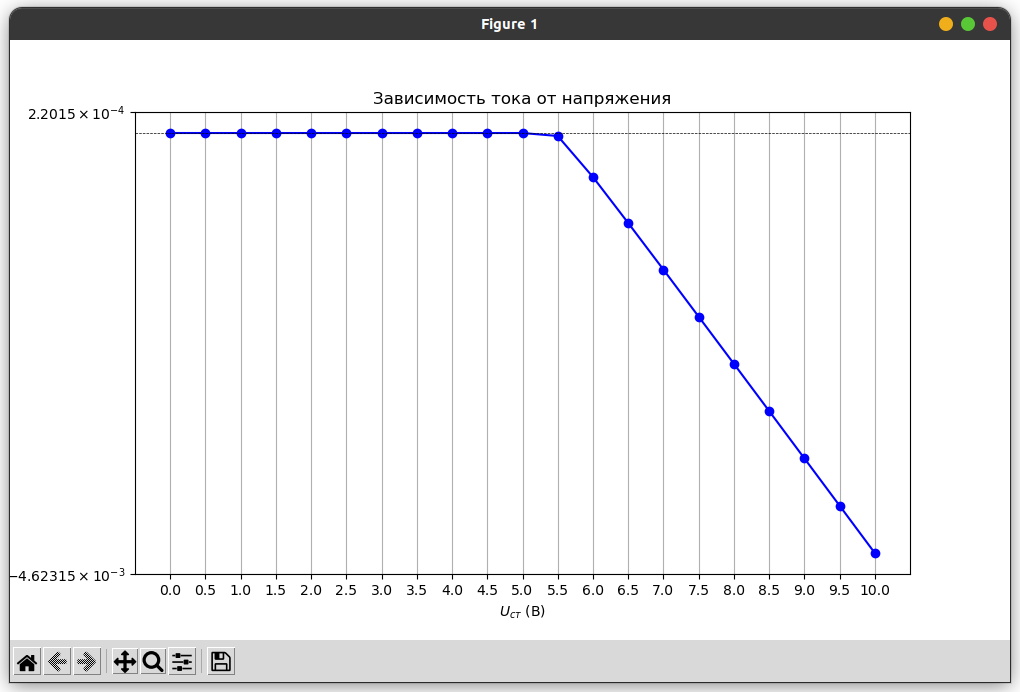
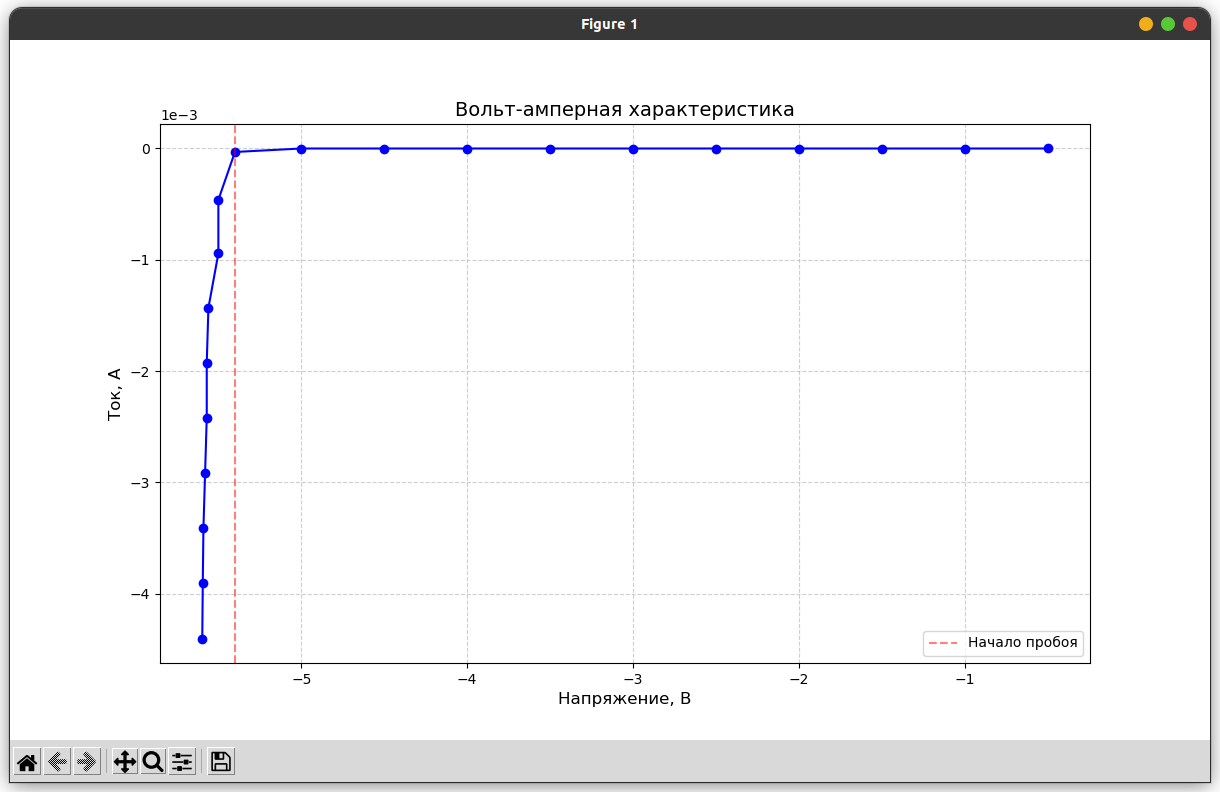
Adding calculations

diff --git a/electPowSup/lab_1/source/R_diff.py b/electPowSup/lab_1/source/R_diff.py
@@ -1,0 +1,48 @@
+import matplotlib.pyplot as plt
+import numpy as np
+
+U_st = [
+    -0.5, -1, -1.5, -2, -2.5, -3, -3.5, -4, -4.5, -5,
+    -5.4, -5.5, -5.5, -5.56, -5.57, -5.57, -5.58, -5.59, -5.594, -5.597
+]
+
+I_st = [
+    -171.424e-9, -171.435e-9, -171.435e-9, -171.435e-9, -171.435e-9,
+    -171.435e-9, -171.435e-9, -171.435e-9, -171.435e-9, -171.436e-9,
+    -31.338e-6, -461.63e-6, -943.146e-6, -1.432e-3, -1.925e-3,
+    -2.419e-3, -2.914e-3, -3.41e-3, -3.906e-3, -4.403e-3
+]
+
+# Вычисление дифференциального сопротивления
+R_diff = []
+for i in range(1, len(U_st)):
+    dU = U_st[i] - U_st[i-1]
+    dI = I_st[i] - I_st[i-1]
+    if dI != 0:
+        R = dU / dI
+    else:
+        R = np.inf  # Если ток не меняется
+    R_diff.append(R)
+
+# Усредненные напряжения для сопоставления с R_diff
+U_avg = [(U_st[i] + U_st[i-1])/2 for i in range(1, len(U_st))]
+
+# Построение графика
+plt.figure(figsize=(12, 6))
+plt.plot(U_avg, R_diff, marker='o', linestyle='-', color='red')
+plt.yscale('log')  # Логарифмическая шкала для наглядности
+
+# Настройки графика
+plt.title("Дифференциальное сопротивление R дифф", fontsize=14)
+plt.xlabel("Напряжение, В", fontsize=12)
+plt.ylabel("R дифф, Ом", fontsize=12)
+plt.grid(True, which="both", linestyle="--", alpha=0.6)
+plt.axvline(x=-5.4, color="grey", linestyle="--", label="Начало пробоя")
+plt.legend()
+plt.show()
+
+# Вывод результатов в табличной форме
+print("| Напряжение (среднее) | R_дифф (Ом)   |")
+print("|----------------------|---------------|")
+for U, R in zip(U_avg, R_diff):
+    print(f"| {U:8.3f}           | {R:12.2e} |")

diff --git a/electPowSup/lab_1/source/reverse.py b/electPowSup/lab_1/source/reverse.py
@@ -1,0 +1,32 @@
+import matplotlib.pyplot as plt
+
+U_st = [
+    -0.5, -1, -1.5, -2, -2.5, -3, -3.5, -4, -4.5, -5,
+    -5.4, -5.5, -5.5, -5.56, -5.57, -5.57, -5.58, -5.59, -5.594, -5.597
+]
+
+I_st = [
+    -171.424e-9, -171.435e-9, -171.435e-9, -171.435e-9, -171.435e-9,
+    -171.435e-9, -171.435e-9, -171.435e-9, -171.435e-9, -171.436e-9,
+    -31.338e-6, -461.63e-6, -943.146e-6, -1.432e-3, -1.925e-3,
+    -2.419e-3, -2.914e-3, -3.41e-3, -3.906e-3, -4.403e-3
+]
+
+# Построение графика
+plt.figure(figsize=(12, 7))
+plt.plot(U_st, I_st, marker='o', linestyle='-', color='blue', markersize=6)
+
+# Настройка оформления
+plt.title("Вольт-амперная характеристика", fontsize=14)
+plt.xlabel("Напряжение, В", fontsize=12)
+plt.ylabel("Ток, А", fontsize=12)
+plt.grid(True, linestyle="--", alpha=0.6)
+
+# Форматирование осей (научная нотация для тока)
+plt.ticklabel_format(axis="y", style="sci", scilimits=(-3, 3))
+
+# Выделение области пробоя (опционально)
+plt.axvline(x=-5.4, color="red", linestyle="--", alpha=0.5, label="Начало пробоя")
+plt.legend()
+
+plt.show()

diff --git a/electPowSup/lab_1/source/direct.py b/electPowSup/lab_1/source/direct.py
@@ -1,0 +1,22 @@
+import matplotlib.pyplot as plt
+
+U_st = [0.560, 0.620, 0.647, 0.665, 0.679, 0.689, 0.698, 0.706, 0.712, 0.718]  # Напряжение в вольтах (В)
+I_st = [0.0087, 0.027, 0.047, 0.066, 0.086, 0.106, 0.126, 0.145, 0.165, 0.185]  # Ток в амперах (А)
+
+# Построение графика
+plt.figure(figsize=(10, 6))
+# plt.plot(U_st, I_st, marker='o', linestyle='-', color='b', label='ВАХ')
+plt.plot(U_st, I_st, marker='o', linestyle='-', color='b', label='ВАХ')
+
+# Настройка осей и заголовка
+plt.xlabel('Напряжение, В', fontsize=12)
+plt.ylabel('Ток, А', fontsize=12)
+plt.title('Вольт-амперная характеристика', fontsize=14)
+plt.grid(True, linestyle='--', alpha=0.7)
+
+# Форматирование осей (опционально)
+plt.gca().xaxis.set_major_formatter(plt.FormatStrFormatter('%.3f'))
+plt.gca().yaxis.set_major_formatter(plt.FormatStrFormatter('%.3f'))
+
+# Отображение графика
+plt.show()

diff --git a/electPowSup/lab_1/README.md b/electPowSup/lab_1/README.md
@@ -24,7 +24,7 @@ $$U_{\text пр} = E_{\text кр} \cdot W$$
 
 $$R_{\text б} = \frac{U_{\text вх} - U_{\text ст}}{I_{\text ст} + I_{\text н}}$$
 
-![Photo 1](pictures/1.png)
+![Photo 1](pictures/1.png "Обратное включение стабилитрона")
 
 Коэффициент стабилизации $K_{\text ст}$:
 
@@ -40,36 +40,55 @@ $$R_{\text вых} = \frac{\Delta U_{\text вых}}{\Delta I_н} \approx R_{\tex
 
 ### Измерение ВАХ стабилитрона
 
-При измерении ВАХ нагрузка ($R_{\text н}$) должна быть отключена.
+При измерении ВАХ нагрузка $R_{\text н}$ должна быть отключена.
+
+#### Для прямого подключения стабилитрона:
+Берем источник с диапазоном от $0$ до $10B$.
+
+$R_{\text б } = 50 Ом$
+
+| $E$ | $I_{\text ст}$ | $U_{\text ст}$ |
+| :-: | :------------: | :------------: |
+|  1  |     8.7 mA     |     560 mV     |
+|  2  |     27 mA      |     620 mV     |
+|  3  |     47 mA      |     647 mV     |
+|  4  |     66 mA      |     665 mV     |
+|  5  |     86 mA      |     679 mV     |
+|  6  |     106 mA     |     689 mV     |
+|  7  |     126 mA     |     698 mV     |
+|  8  |     145 mA     |     706 mV     |
+|  9  |     165 mA     |     712 mV     |
+| 10  |     185 mA     |     718 mV     |
+
+![Photo 4](pictures/4.png)
 
 #### Для обратного подключения стабилитрона:
 Берем источник с диапазоном от $0$ до $10B$.
 
-$R_{\text б } = 1кОм$
+$R_{\text б } = 1kОм$
 
-| $U_{\text ст}$ | $I_{\text ст}$ |
-| :------------: | :------------: |
-|       0        |       0        |
-|      0.5       |  -171.424 nA   |
-|       1        |  -171.435 nA   |
-|      1.5       |  -171.435 nA   |
-|       2        |  -171.435 nA   |
-|      2.5       |  -171.435 nA   |
-|       3        |  -171.435 nA   |
-|      3.5       |  -171.435 nA   |
-|       4        |  -171.435 nA   |
-|      4.5       |  -171.435 nA   |
-|       5        |  -171.436 nA   |
-|      5.5       |   -31.338 μA   |
-|       6        |   -461.63 μA   |
-|      6.5       |  -943.146 μA   |
-|       7        |   -1.432 mA    |
-|      7.5       |   -1.925 mA    |
-|       8        |   -2.419 mA    |
-|      8.5       |   -2.914 mA    |
-|       9        |    -3.41 mA    |
-|      9.5       |   -3.906 mA    |
-|       10       |   -4.403 mA    |
+| $E$ | $U_{\text ст}$ | $I_{\text ст}$ |
+| :-: | :------------: | :------------: |
+| 0.5 |      -0.5      |  -171.424 nA   |
+|  1  |       -1       |  -171.435 nA   |
+| 1.5 |      -1.5      |  -171.435 nA   |
+|  2  |       -2       |  -171.435 nA   |
+| 2.5 |      -2.5      |  -171.435 nA   |
+|  3  |       -3       |  -171.435 nA   |
+| 3.5 |      -3.5      |  -171.435 nA   |
+|  4  |       -4       |  -171.435 nA   |
+| 4.5 |      -4.5      |  -171.435 nA   |
+|  5  |       -5       |  -171.436 nA   |
+| 5.5 |      -5.4      |   -31.338 μA   |
+|  6  |      -5.5      |   -461.63 μA   |
+| 6.5 |      -5.5      |  -943.146 μA   |
+|  7  |     -5.56      |   -1.432 mA    |
+| 7.5 |     -5.57      |   -1.925 mA    |
+|  8  |     -5.57      |   -2.419 mA    |
+| 8.5 |     -5.58      |   -2.914 mA    |
+|  9  |     -5.59      |    -3.41 mA    |
+| 9.5 |     -5.594     |   -3.906 mA    |
+| 10  |     -5.597     |   -4.403 mA    |
 
 На рисунке видно, что пробой произошел при напряжении в $5.6В$
 ![Photo 2](pictures/2.png)
@@ -79,38 +98,38 @@ $R_{\text б } = 1кОм$
 
 **Характер ВАХ**:
 - При напряжении V < 5.5 В ток крайне мал (порядка -171 нА), что соответствует закрытому состоянию стабилитрона в обратном включении.
-- При V ≥ 5.5 В ток резко возрастает (до -4.4 мА), что соответствует зоне пробоя стабилитрона.
+- При V ≥ 5.5 В ток резко возрастает, что соответствует зоне пробоя стабилитрона.
 - Резкий рост тока начинается при V ≈ 5.5 В, что близко к типичному напряжению стабилизации для стабилитронов (например, 5.6 В для КС156).
 
-#### Для прямого подключения стабилитрона:
-Берем источник с диапазоном от $0$ до $20B$.
 
-$R_{\text б } = 1кОм$
+#### Рассчеты
 
+Напряжение стабилизации (прямое падение): ~0.7 В (видно из роста напряжения до ~700 мВ при токе >100 мА).
 
-| $U_{\text ст}$ | $I_{\text ст}$ |
-| :------------: | :------------: |
-|       0        |       0        |
-|       1        |   597.63 μA    |
-|       2        |    1.529 mA    |
-|       3        |    2.504 mA    |
-|       4        |    3.487 mA    |
-|       5        |    4.474 mA    |
-|       6        |    5.464 mA    |
-|       7        |    6.455 mA    |
-|       8        |    7.448 mA    |
-|       9        |    8.441 mA    |
-|       10       |    9.435 mA    |
-|       11       |    10.43 mA    |
-|       12       |   11.425 mA    |
-|       13       |   12.421 mA    |
-|       14       |   13.417 mA    |
-|       15       |   14.413 mA    |
-|       16       |    15.41 mA    |
-|       17       |   16.407 mA    |
-|       18       |   17.404 mA    |
-|       19       |   18.401 mA    |
-|       20       |   19.398 mA    |
-<!-- $$ R_{\text{дифф}} = \frac{\Delta U}{\Delta I} = \frac{U_2 - U_1}{I_2 - I_1} = 46 \Omega $$ -->
+Дифференциальное сопротивление в рабочей области для прямого подключения:
 
+$$R_{\text{дифф}} =  \frac{\Delta U_{\text ст}}{\Delta I_{\text ст}} = \frac{689 - 679}{106 - 86} = 0.5 Ом$$
 
+Дифференциальное сопротивление в области пробоя для обратного подключения:
+
+$U_{\text ст}$: ~-5.6 В
+
+$$R_{\text{дифф}} =  \frac{\Delta U_{\text ст}}{\Delta I_{\text ст}} = \frac{-5.57-(-5.56)}{-1.925-(-1.432)} = 20.3 Ом$$
+
+Коэффициент стабилизации для обратного включения:
+
+$$K_{\text ст} = \frac{\Delta U_{\text вх}/\Delta U_{\text вх}}{\Delta U_{\text вых}/\Delta U_{\text вых}} = \frac{0.5}{-0.01} \cdot \frac{-5.57}{7.25} = 38.4$$
+
+КПД:
+
+$${\eta} = \frac{P_{\text вых}}{P_{\text вх}} \times 100 \% = \frac{0.0285}{0.0949} \times 100 \% = 30 \%$$
+
+#### Выводы:
+
+Прямое включение: Стабилитрон ведет себя как обычный диод с низким прямым падением (~0.7 В) и малым дифференциальным сопротивлением (0.5 Ом).
+
+Обратное включение: Напряжение стабилизации составляет ~-5.6 В. Дифференциальное сопротивление в области пробоя ~20 Ом, что соответствует характеристикам стабилитронов.
+
+Коэффициент стабилизации достигает ~38, что указывает на эффективность стабилизации в рабочей области.
+
+КПД параметрического стабилизатора низок (~30%), что типично для таких схем из-за потерь на балластном резисторе.
